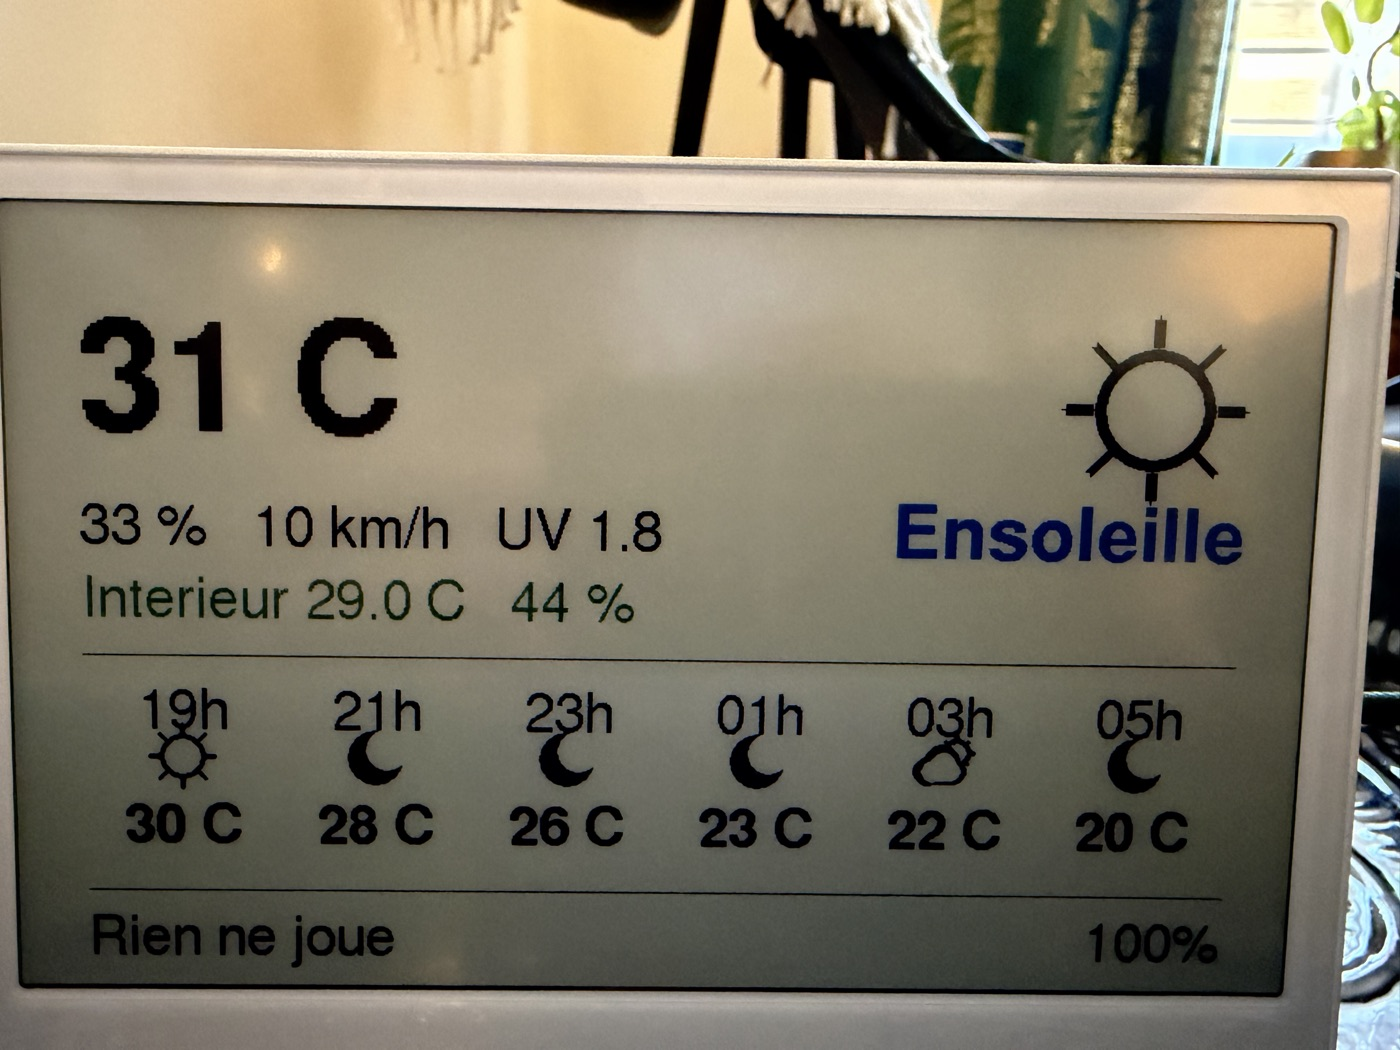
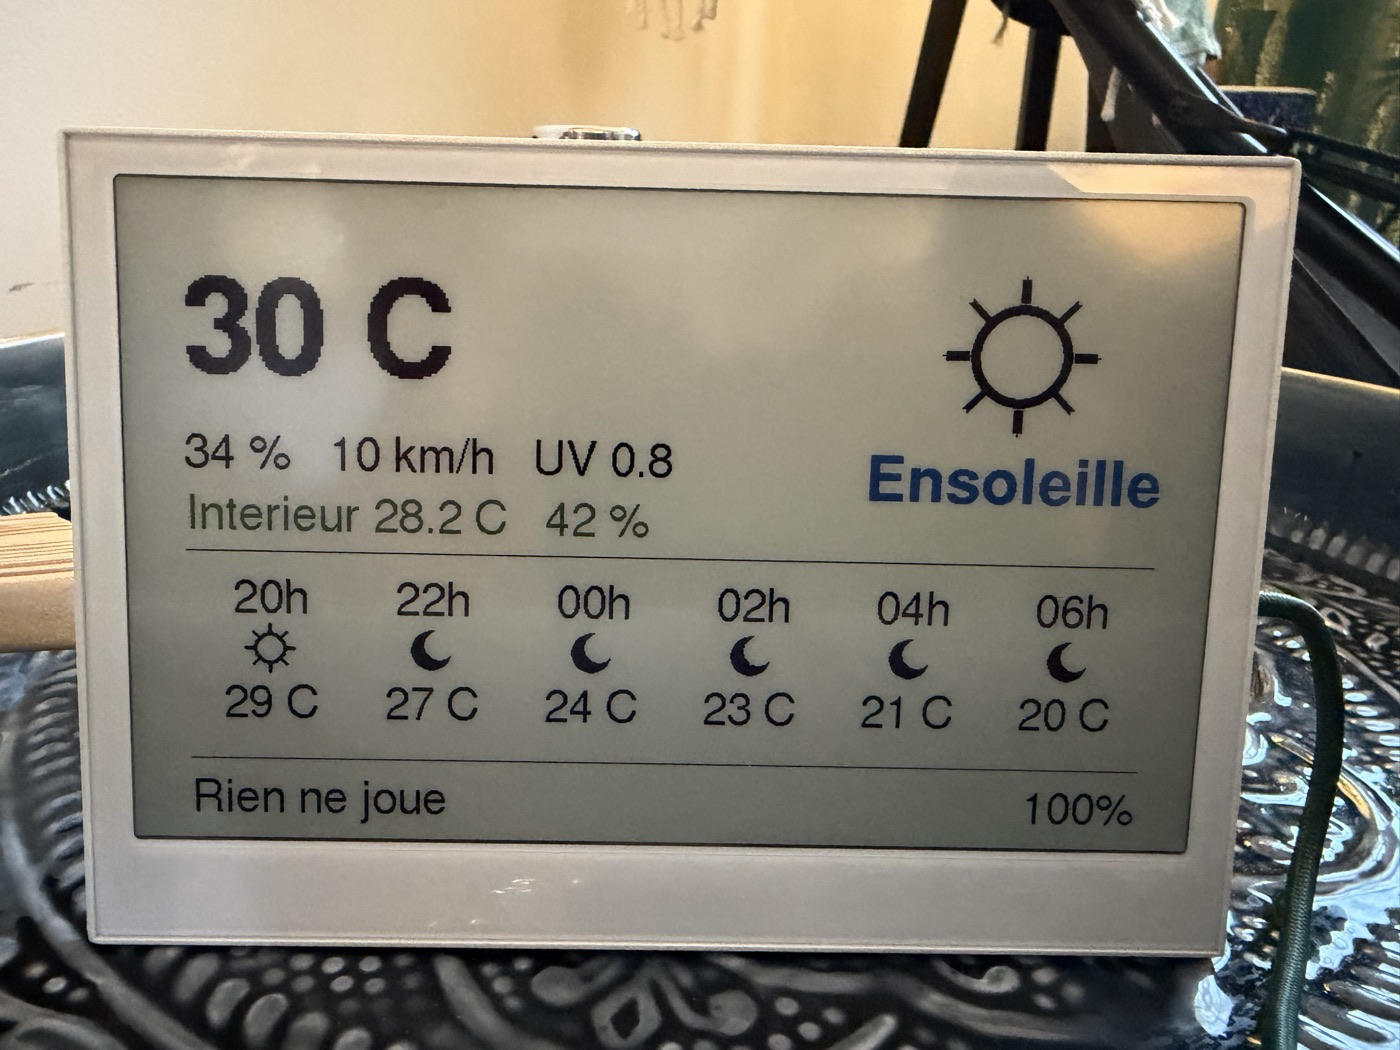
Calage typographique de l'ecran meteo, valide sur le panneau
Trois retouches, chacune signalee sur photo et invisible autrement :

- la temperature des creneaux passe en graisse normale ; en gras elle
  ecrasait l'heure, alors que les deux valeurs se lisent ensemble ;
- neuf pixels de respiration entre l'heure et le pictogramme, qui s'y
  lisait comme un accent du texte. Le rayon passe de 20 a 18 px et le
  bloc remonte de 8 px, sans quoi la ligne de precipitations passerait
  sous le trait du bandeau ;
- le grand pictogramme se centre desormais sur le libelle : sa position
  se calcule a partir de la largeur du texte, mesuree avec la police qui
  servira a le tracer. L'alignement tient du court « Orage » au long
  « Peu nuageux ». Le libelle reste aligne a droite — centre sous
  l'icone, il deborderait de la marge.

Photo du README remise a jour, EXIF retire.

diff --git a/src/display.cpp b/src/display.cpp
@@ -473,26 +473,33 @@ void showWeather(const weather::View& view, const Status& status) {
   constexpr int16_t kHeadlineY = 60;
   constexpr int16_t kDetailsY = 175;
   constexpr int16_t kIndoorY = 220;
-  constexpr int16_t kColumnsY = 290;
+  // Le bloc des créneaux remonte de huit pixels : les espaces ajoutés autour
+  // des pictogrammes auraient sinon poussé la ligne de précipitations sous le
+  // trait du bandeau.
+  constexpr int16_t kColumnsY = 282;
 
   // La température domine : c'est la seule information qu'on lit de loin.
   epaper.setTextColor(TFT_BLACK);
   applyTitleStyle(layout::TitleStyle::kHuge);
   epaper.drawString(view.temperature.c_str(), kMargin, kHeadlineY);
 
-  // Le pictogramme occupe le coin haut droit, le libellé passe dessous. Le
-  // libellé reste aligné à droite plutôt que centré sous l'icône : « Peu
-  // nuageux » déborderait de la marge.
-  if (!view.stale) {
-    drawConditionIcon(kWidth - kMargin - 60, kHeadlineY + 50, 55, view.condition);
-  }
-
+  // Le libellé reste aligné à droite — centré sous l'icône, « Peu nuageux »
+  // déborderait de la marge — mais l'icône, elle, se centre sur lui. Sa
+  // position se calcule donc à partir de la largeur du texte, mesurée avec la
+  // police qui servira à le tracer.
   epaper.setTextSize(1);
   epaper.setFreeFont(&FreeSansBold24pt7b);
+
+  if (!view.stale) {
+    const int16_t label_width = epaper.textWidth(view.condition_label.c_str());
+    drawConditionIcon(kWidth - kMargin - label_width / 2, kHeadlineY + 48, 55,
+                      view.condition);
+  }
+
   epaper.setTextColor(view.stale ? TFT_RED : TFT_BLUE);
   epaper.setTextDatum(TR_DATUM);
   epaper.drawString(view.condition_label.c_str(), kWidth - kMargin,
-                    view.stale ? kHeadlineY + 20 : kHeadlineY + 108);
+                    view.stale ? kHeadlineY + 20 : kHeadlineY + 120);
   epaper.setTextDatum(TL_DATUM);
 
   epaper.setFreeFont(&FreeSans18pt7b);
@@ -521,15 +528,21 @@ void showWeather(const weather::View& view, const Status& status) {
       epaper.setTextColor(TFT_BLACK);
       epaper.drawString(column.hour.c_str(), centre, kColumnsY);
 
-      drawConditionIcon(centre, kColumnsY + 44, 20, column.condition);
+      // Une ligne de 18 pt occupe 26 px sous son point d'ancrage. Le
+      // pictogramme est donc centré assez bas pour laisser respirer l'heure :
+      // collé, il se lisait comme un accent du texte plutôt que comme un
+      // symbole. Rayon réduit de 20 à 18 pour dégager la même marge en dessous.
+      drawConditionIcon(centre, kColumnsY + 53, 18, column.condition);
 
-      epaper.setFreeFont(&FreeSansBold18pt7b);
-      epaper.drawString(column.temperature.c_str(), centre, kColumnsY + 74);
+      // Même graisse que l'heure : en gras, la température écrasait le reste de
+      // la colonne alors que les deux valeurs se lisent ensemble.
+      epaper.setFreeFont(&FreeSans18pt7b);
+      epaper.drawString(column.temperature.c_str(), centre, kColumnsY + 80);
 
       if (!column.precipitation.empty()) {
         epaper.setFreeFont(&FreeSans12pt7b);
         epaper.setTextColor(TFT_BLUE);
-        epaper.drawString(column.precipitation.c_str(), centre, kColumnsY + 112);
+        epaper.drawString(column.precipitation.c_str(), centre, kColumnsY + 114);
         epaper.setTextColor(TFT_BLACK);
       }
     }

diff --git a/tasks/todo.md b/tasks/todo.md
@@ -113,6 +113,18 @@ rafraîchissements de 37 s pour juger de proportions auraient été absurdes. Il
 apparaître trois défauts — un croissant flanqué d'une pleine lune blanche, des gouttes
 longues comme des barreaux d'échelle, neige et grêle identiques.
 
+Trois réglages typographiques ont suivi, chacun signalé sur photo et invisible autrement :
+
+- la **température des créneaux** passe en graisse normale — en gras elle écrasait l'heure,
+  alors que les deux valeurs se lisent ensemble ;
+- **9 px de respiration** entre l'heure et le pictogramme, qui se lisait comme un accent du
+  texte tant il y était collé ; le rayon passe de 20 à 18 px et tout le bloc remonte de 8 px,
+  faute de quoi la ligne de précipitations serait passée sous le trait du bandeau ;
+- le **grand pictogramme se centre sur le libellé** au lieu d'occuper une position fixe : sa
+  position se calcule à partir de la largeur du texte, mesurée avec la police qui servira à
+  le tracer. L'alignement tient donc du court « Orage » au long « Peu nuageux ». Le libellé
+  reste aligné à droite — centré sous l'icône, il déborderait de la marge.
+
 La photo du README montre l'écran définitif.
 
 ### Correction de L14 : la compilation cible échouait
